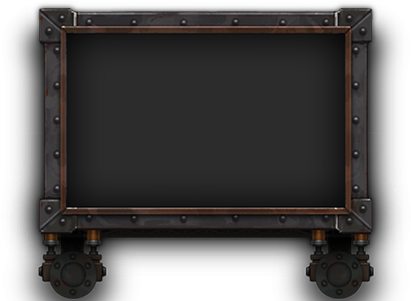
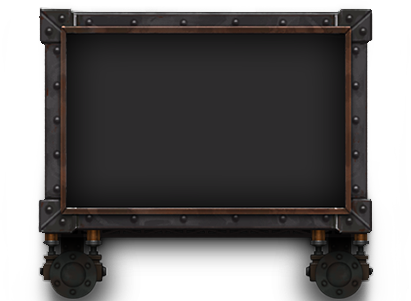
update small fram in gallery

Changed region(s): [[0.0292, 0.0, 0.9051, 1.0], [0.8759, 0.0299, 0.9635, 1.0]]

diff --git a/packages/client/src/sass/sections/slider.scss b/packages/client/src/sass/sections/slider.scss
@@ -12,10 +12,10 @@
 .gallery-slider {
   --slide-size: 190px;
   --slide-margin: 4vmin;
-  height: 200px;
+  height: 30vh;
   margin: 0 auto;
   position: relative;
-  width: 300px;
+  max-width: calc( 100vh * 16 / 10);
   
   &__wrapper {
     display: flex;
@@ -63,11 +63,11 @@
   flex-direction: column;
   height: 300px;
   justify-content: center;
-  margin: 0px 20px;
+  margin: 0px 5vh;
   position: relative;
   text-align: center;
   transition: opacity calc(var(--base-duration) / 2) var(--base-ease), transform calc(var(--base-duration) / 2) var(--base-ease);
-  width: 245px;
+  width: 25vh;
   z-index: 1;
 
   &__image-wrapper {
@@ -75,9 +75,9 @@
     border-radius: 1%;
     height: 100%;
     left: 18%;
-    overflow: hidden;
+    // overflow: hidden;
     position: absolute;
-    top: 0%;
+    bottom: 0%;
     transition: transform calc(var(--base-duration) / 4) var(--base-ease);
     width: 100%;
   }
@@ -114,7 +114,7 @@
       left: 18%;
       overflow: hidden;
       position: absolute;
-      top: 0%;
+      bottom: 0%;
       transition: transform calc(var(--base-duration) / 4) var(--base-ease);
       width: 100%;
     }
@@ -167,23 +167,29 @@
   }
 
   &-light{
-    opacity: 1;
+    z-index: 7;
+    height: 14vh;
+    position: relative;
+    bottom: 18vh;
+    left: 3.6vh;
+    width: 26.7vh;
   }
 }
 
 .slide__image {
   --d: 20;
-  height: 140px;
-  left: 8%;
+  height: 14vh;
+  left: 5.5vh;
   // object-fit: cover;
   // opacity: 0;
   pointer-events: none;
   position: absolute;
-  top: 6%;
+  top: 7vh;
+  // bottom: 12vh;
   transition: opacity var(--base-duration) var(--base-ease), transform var(--base-duration) var(--base-ease);
   -webkit-user-select: none;
   user-select: none;
-  width: 200px;
+  width: 23vh;
   z-index: 2;
   
   @media (hover: hover) {

diff --git a/packages/server/src/services/initialPages.ts b/packages/server/src/services/initialPages.ts
@@ -20,7 +20,7 @@ export default [
         "name": "videos",
         "title": "Videos",
         "menuImage": "/images/video@3x.png",
-        "titleImage": "/images/VIDEOS.png",
+        "titleImage": "/images/Header_Videos.png",
         "contents": [
             {
                 "title": "main video",
@@ -49,7 +49,7 @@ export default [
         "name": "gameplay",
         "title": "Gameplay Story",
         "menuImage": "/images/gamePlay@3x.png",
-        "titleImage": "/images/GAMEPLAYSTORY.png",
+        "titleImage": "/images/Header_Gameplay.png",
         "contents": [
             {
                 "title": "pic1",
@@ -84,7 +84,7 @@ export default [
         "name": "gallery",
         "title": "Gallery",
         "menuImage": "/images/gallery@3x.png",
-        "titleImage": "/images/GALLERY.png",
+        "titleImage": "/images/Header_Gallery.png",
         "contents": [
             {
                 "title": "pic1",
@@ -108,7 +108,7 @@ export default [
         "name": "news",
         "title": "News",
         "menuImage": "/images/news@3x.png",
-        "titleImage": "/images/NEWS.png",
+        "titleImage": "/images/Header_News.png",
         "contents": [
             {
                 "title": "news item",

diff --git a/packages/client/src/utils/httpClient.ts b/packages/client/src/utils/httpClient.ts
@@ -34,7 +34,7 @@ class HttpClient {
 
     public constructor(config?: IHttpConfig, errorTable?: IHttpErrorTable) {
         this.instance = axios.create({
-            baseURL: process.env.NODE_ENV !== "production" ? "http://localhost:8081/" : undefined,
+            baseURL: process.env.NODE_ENV !== "production" ? "http://0.0.0.0:8081/" : undefined,
             headers: { token: localStorage.getItem("token") }
         });
         this.errorTable = errorTable;

diff --git a/packages/client/src/sass/sections/gallery.scss b/packages/client/src/sass/sections/gallery.scss
@@ -80,11 +80,11 @@
 
   &__bottom{
     z-index: 1;
-    height: 225px;
+    height: 24.5vh;
     position: relative;
-    left: -30px;
-    top: -9px;
-    width: 300px;
+    // left: -30px;
+    bottom: -4vh;
+    // width: 300px;
 
     @include MIN_MAX_QUERY(1280 , 1366) {
       top: 57px;
